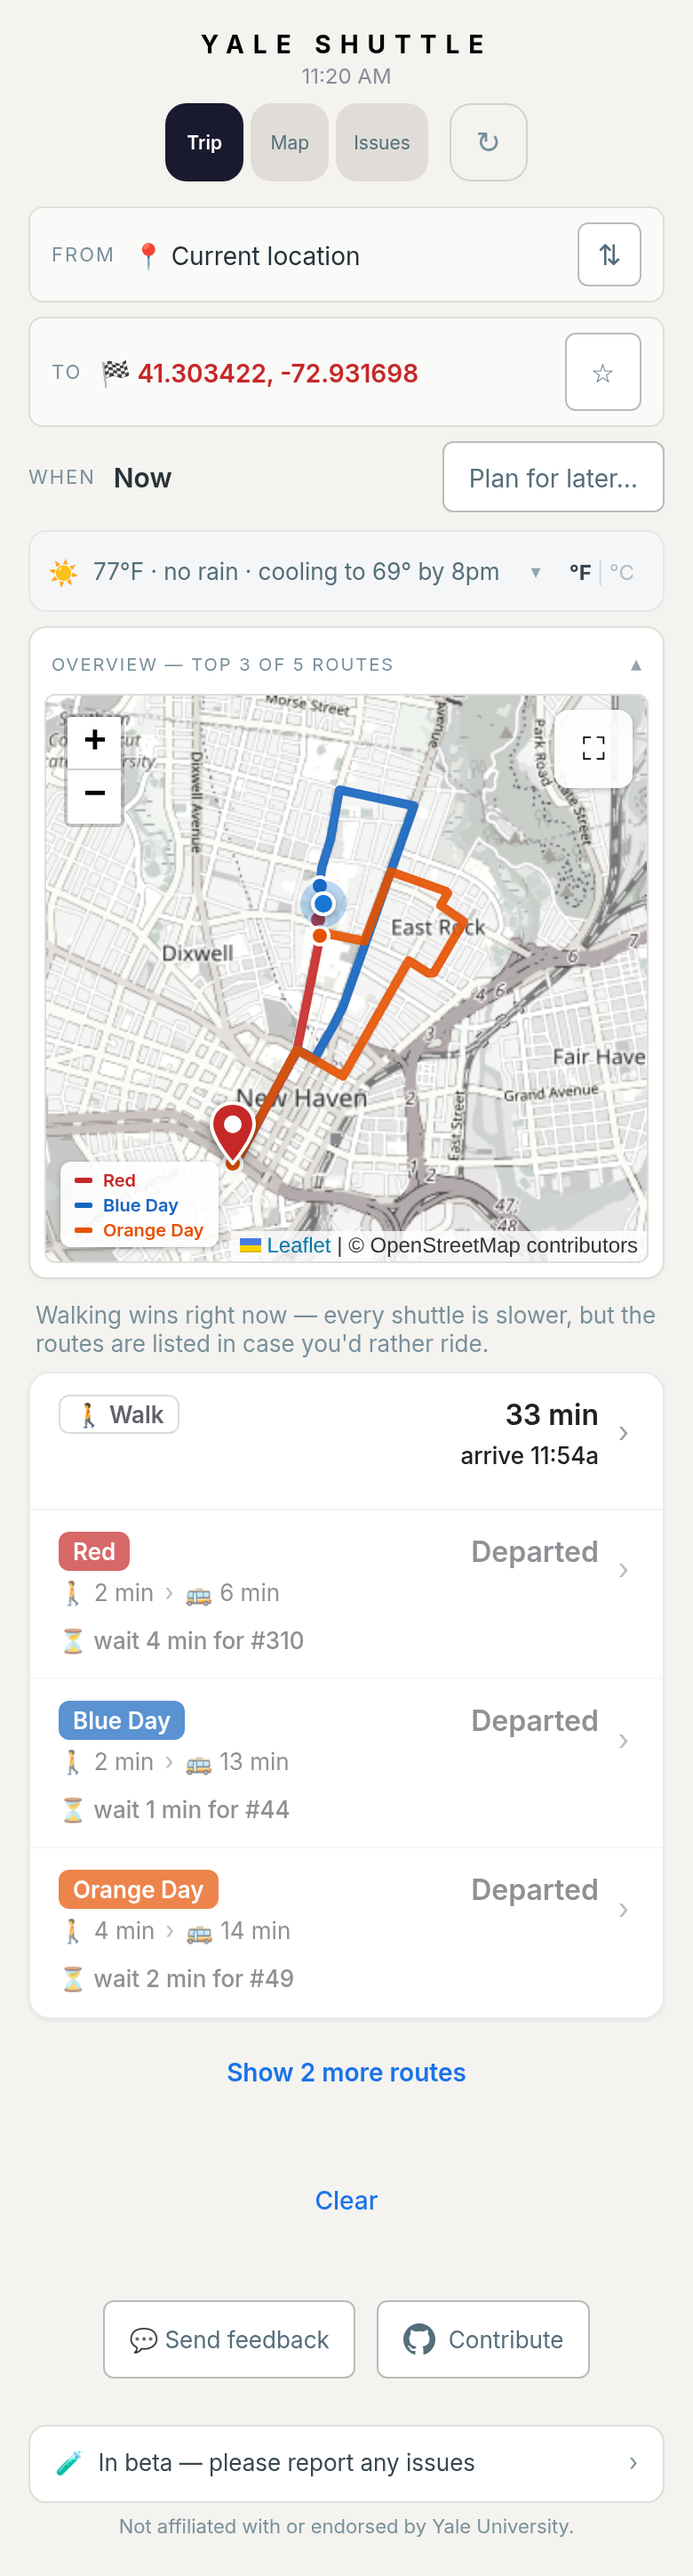
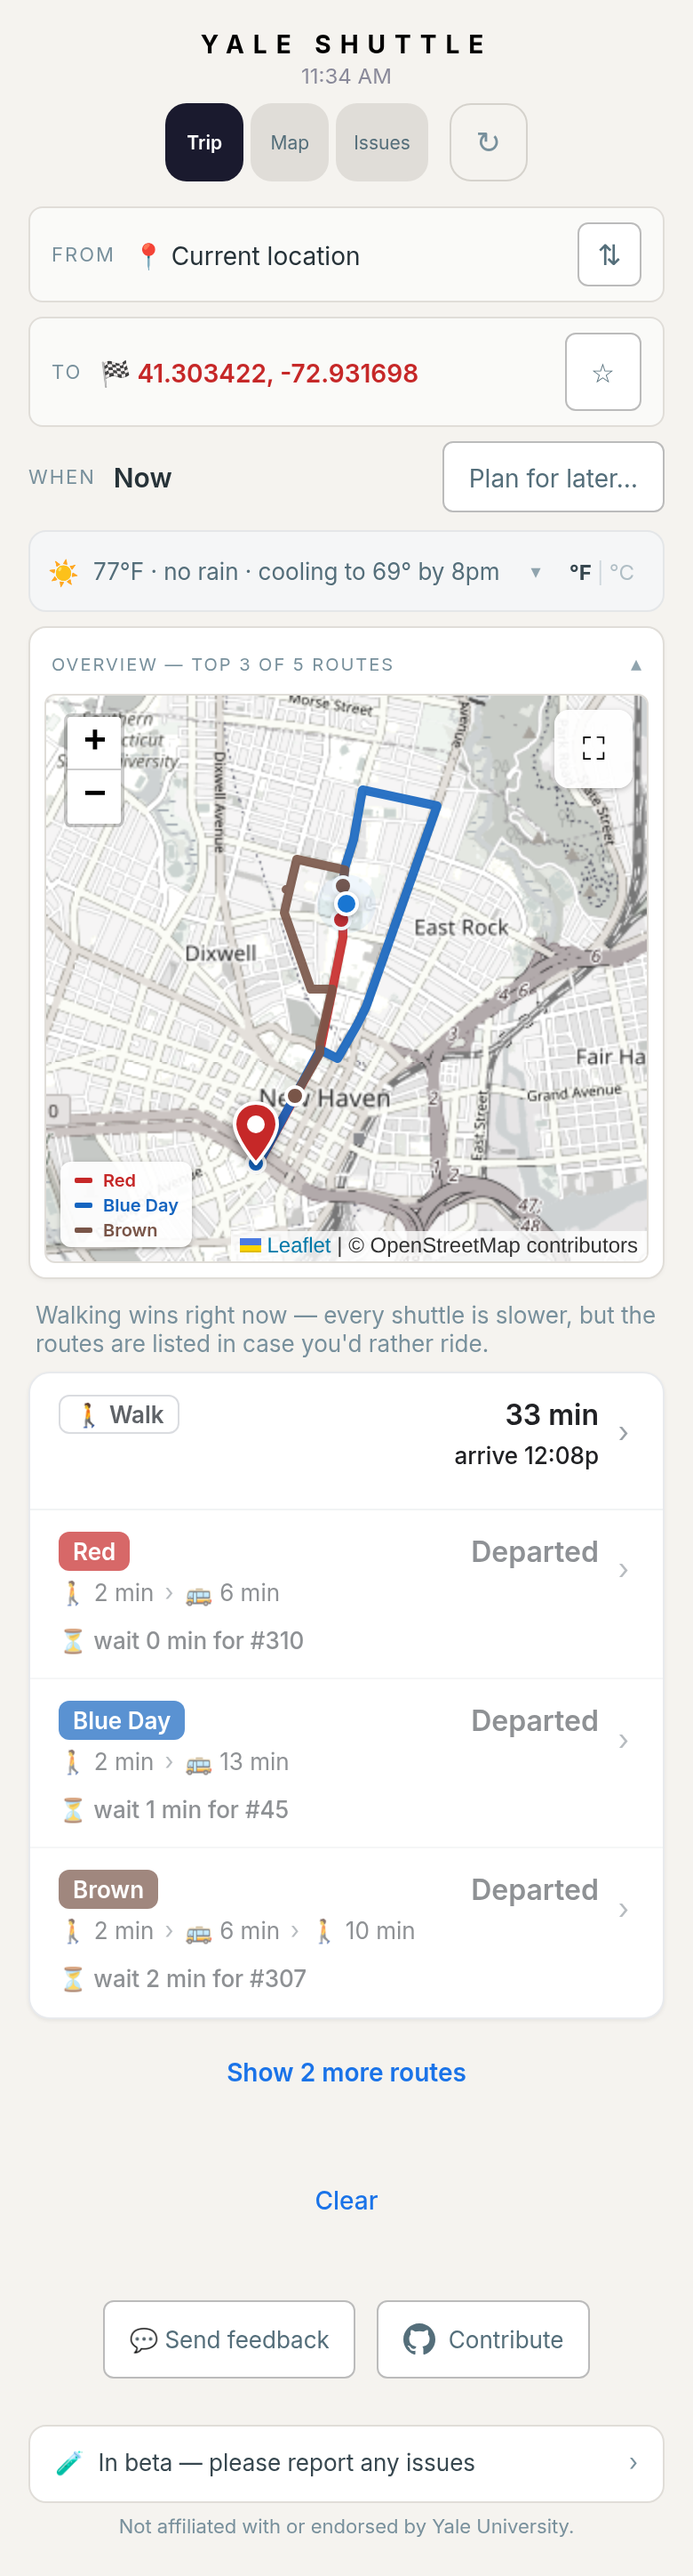
"most direct" keeps its bullet only when something precedes it
The label carries its own leading "·". Until now the arrival clock always sat
to its left and supplied the neighbour that bullet separates from; the clock
is the right column now, so on a card with no walk legs — a rider standing at
the board stop whose destination is the alight stop, which is the preview
harness's own default trip — line 2 would have opened with an orphaned "·
most direct".

`legsShown` is computed once at row scope and both gates the leg block and
decides the separator, so the two cannot disagree about whether anything is
there. (The case already existed on a Departed card, which suppresses the
clock; it is fixed for that too.)

Both pr-preview shots re-taken on this build; neither displays the label, so
they are unchanged in substance.

Claude-Session: https://claude.ai/code/session_01R6RZ3PXjPXGkAaecqr9Z1H

diff --git a/services/shuttle-v2/web/src/TransitMap.tsx b/services/shuttle-v2/web/src/TransitMap.tsx
@@ -3657,6 +3657,13 @@ const TripPlanner: FC<{
                   busEtaLive,
                 )
               : null;
+            // Whether line 2's left column draws the walk/ride legs. "most
+            // direct" carries its own leading "·" and would otherwise open
+            // that column with an orphaned bullet: the arrival clock used to
+            // sit to its left and always supplied the neighbour, and it is the
+            // right column now, so the separator has to ask.
+            const legsShown = !isExpanded && o.mode === "shuttle"
+              && (o.walkToSec > 0 || o.walkFromSec > 0);
             return (
               // Keyed by IDENTITY (route label), not list position — the
               // list reorders live (Go pin, departed sink) and an index
@@ -3774,7 +3781,7 @@ const TripPlanner: FC<{
                       gap: 8, marginTop: 4, minHeight: 18,
                     }}>
                       <span style={{ display: "flex", alignItems: "center", gap: 6, flexWrap: "wrap", minWidth: 0 }}>
-                        {!isExpanded && o.mode === "shuttle" && (o.walkToSec > 0 || o.walkFromSec > 0) && (
+                        {legsShown && (
                           <>
                             {o.walkToSec > 0 && (
                               <>
@@ -3810,7 +3817,7 @@ const TripPlanner: FC<{
                             a ranking. */}
                         {!isExpanded && o.mode === "shuttle" && _direct && o.routeLabel === _direct.routeLabel && (
                           <span data-testid="most-direct" style={{ fontSize: 13, color: "#5f6368", whiteSpace: "nowrap" }}>
-                            · most direct
+                            {legsShown ? "· most direct" : "most direct"}
                           </span>
                         )}
                       </span>
